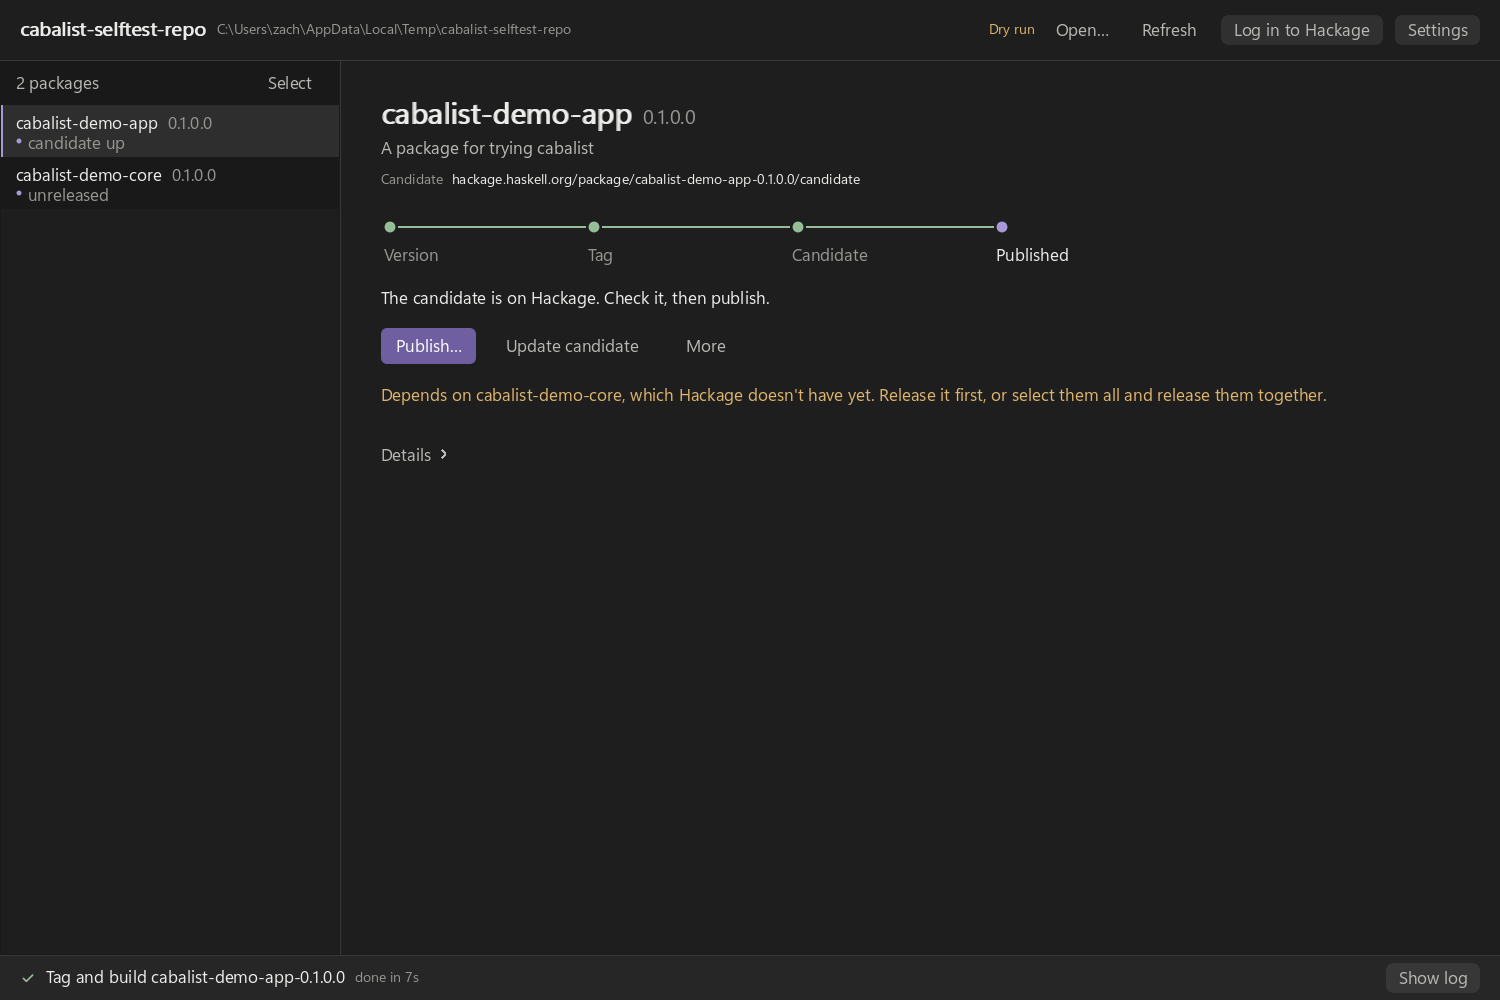
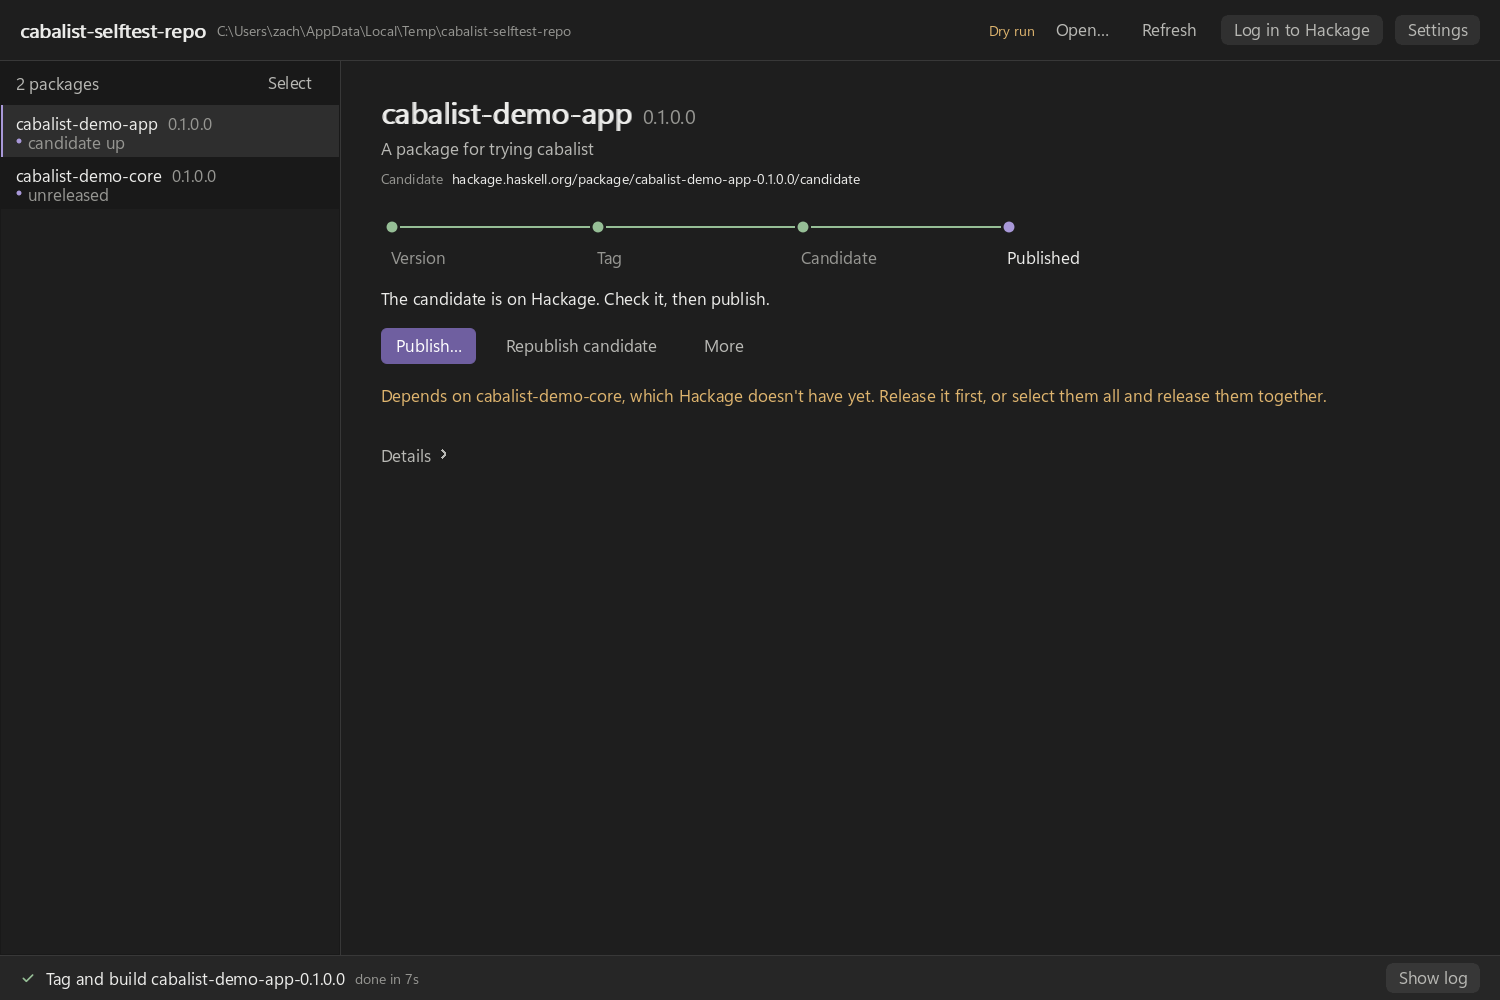
feat: backtrack in timeline, redo steps

diff --git a/README.md b/README.md
@@ -9,7 +9,10 @@ holding one package at its root or many in subdirectories of a monorepo.
 
 Open a git repository and cabalist lists every Cabal package in it. Each
 package's release is a track of four stops, with one button for the next
-step:
+step. The stops are controls too: clicking the one a release stands at takes
+that step, and clicking one it has passed makes that stop's result again,
+which is how a release goes back. Hovering a stop says what clicking it would
+do.
 
 1. **Version.** When the package has changed since its version was released
    (counted from its tag, or from Hackage's upload time when the release was
@@ -25,9 +28,12 @@ step:
    root, a directory git ignores without any change to your `.gitignore`.
 3. **Candidate.** *Upload candidate* uploads the tarball as a Hackage
    candidate, to check before releasing, or skip it with *Publish now…*. To
-   fix something the candidate showed, commit the fix and use *Update
-   candidate*: it moves the tag to the new commit, makes the tarball again
-   over the old one, and uploads it in its place, as often as needed.
+   fix something the candidate showed, commit the fix and click the **Tag**
+   stop: *Replace the tag and tarball* moves the tag to the new commit and
+   makes the tarball again over the old one. Clicking the **Candidate** stop
+   of a candidate that is already up does that and uploads it in the old
+   one's place — *Republish candidate*, as often as needed. A tag is local
+   until the version is published, so both can be repeated freely until then.
 4. **Published.** *Publish…* pushes the branch (when the tag is ahead of it)
    and the tag to your remote, publishes the release, and marks the version
    so cabalist never releases it again. It asks for confirmation first.
@@ -36,8 +42,9 @@ While a candidate is up, or once the version is released, a link under the
 package's name opens it on Hackage.
 
 Everything else a release can need is under *More*: checking the package,
-redoing the tag and tarball after more commits, rebuilding from the tarball,
-and uploading or publishing documentation. Notes under the button point out
+rebuilding from the tarball, uploading or publishing documentation, and
+*Remove tag and tarball*, which goes back past the tag and leaves nothing in
+its place. Notes under the button point out
 what would spoil a release: uncommitted changes, commits after the tag, a
 changelog with no entry for the version, a dependency in the same repository
 that Hackage does not have yet.
